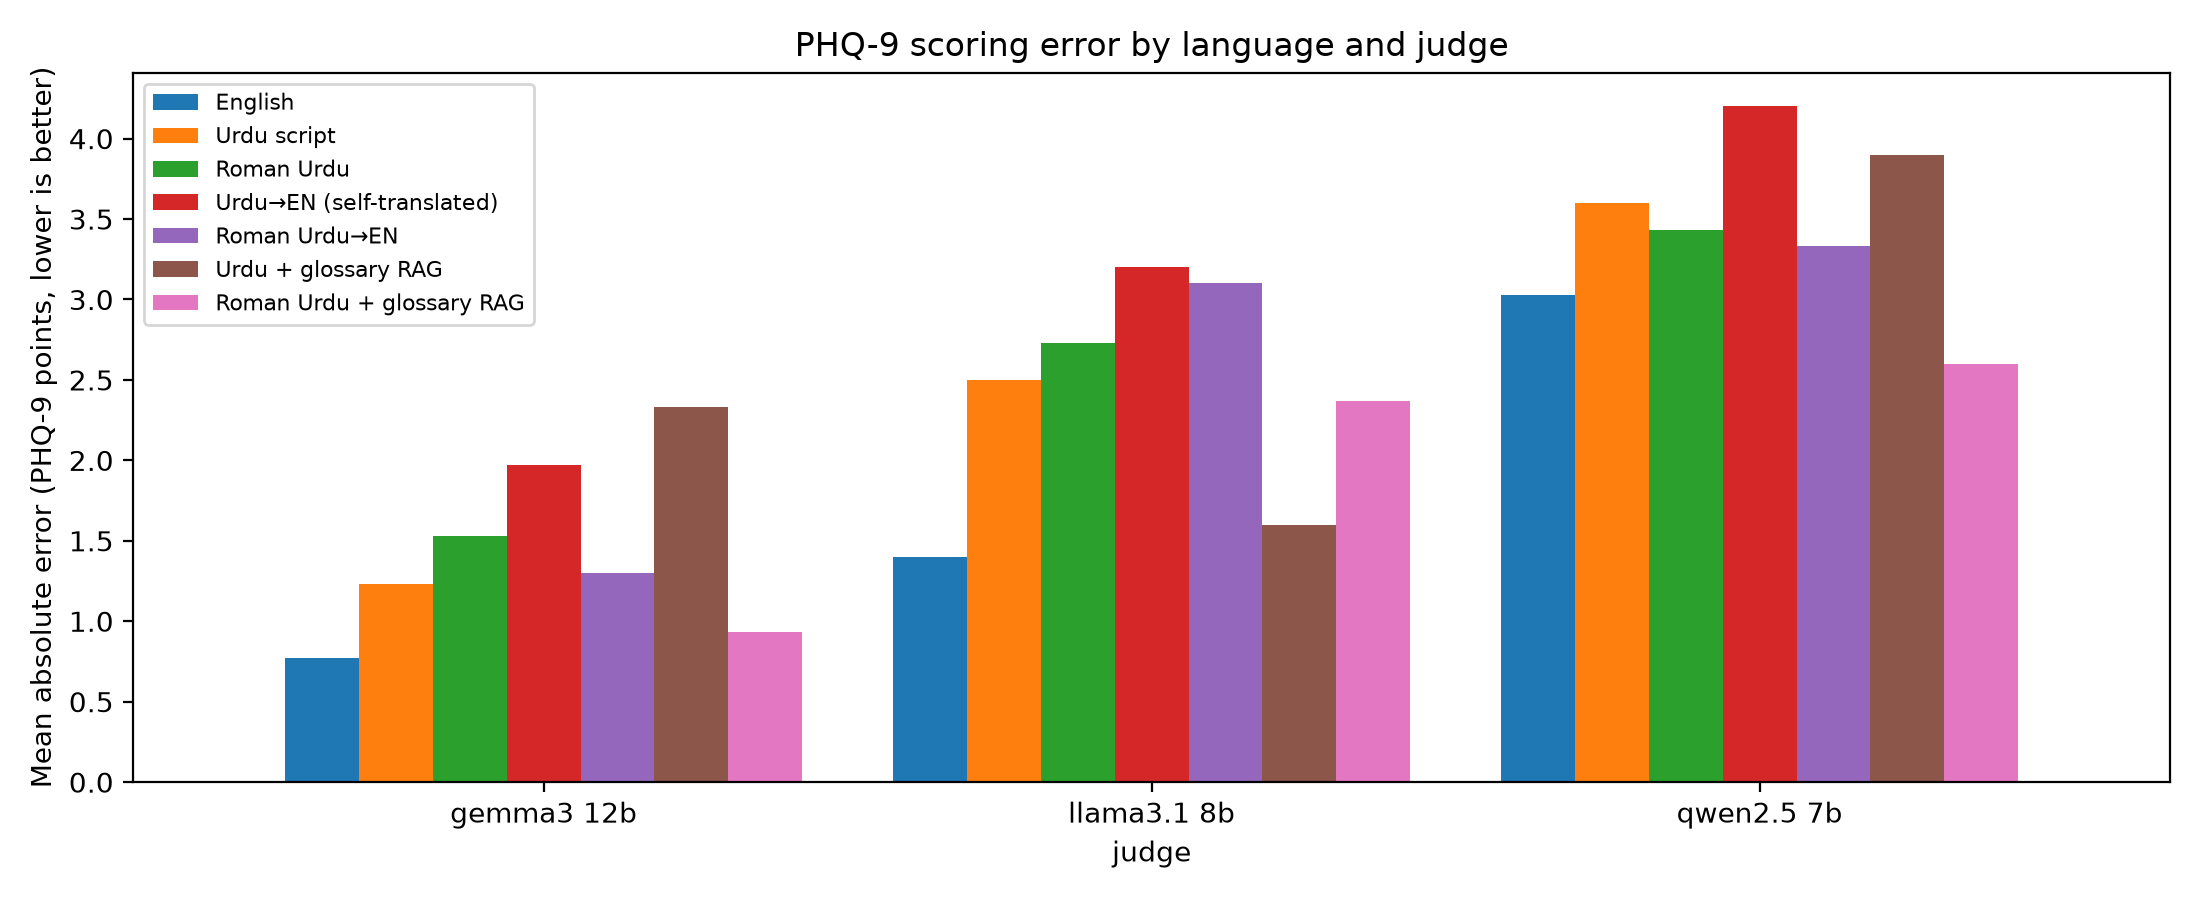
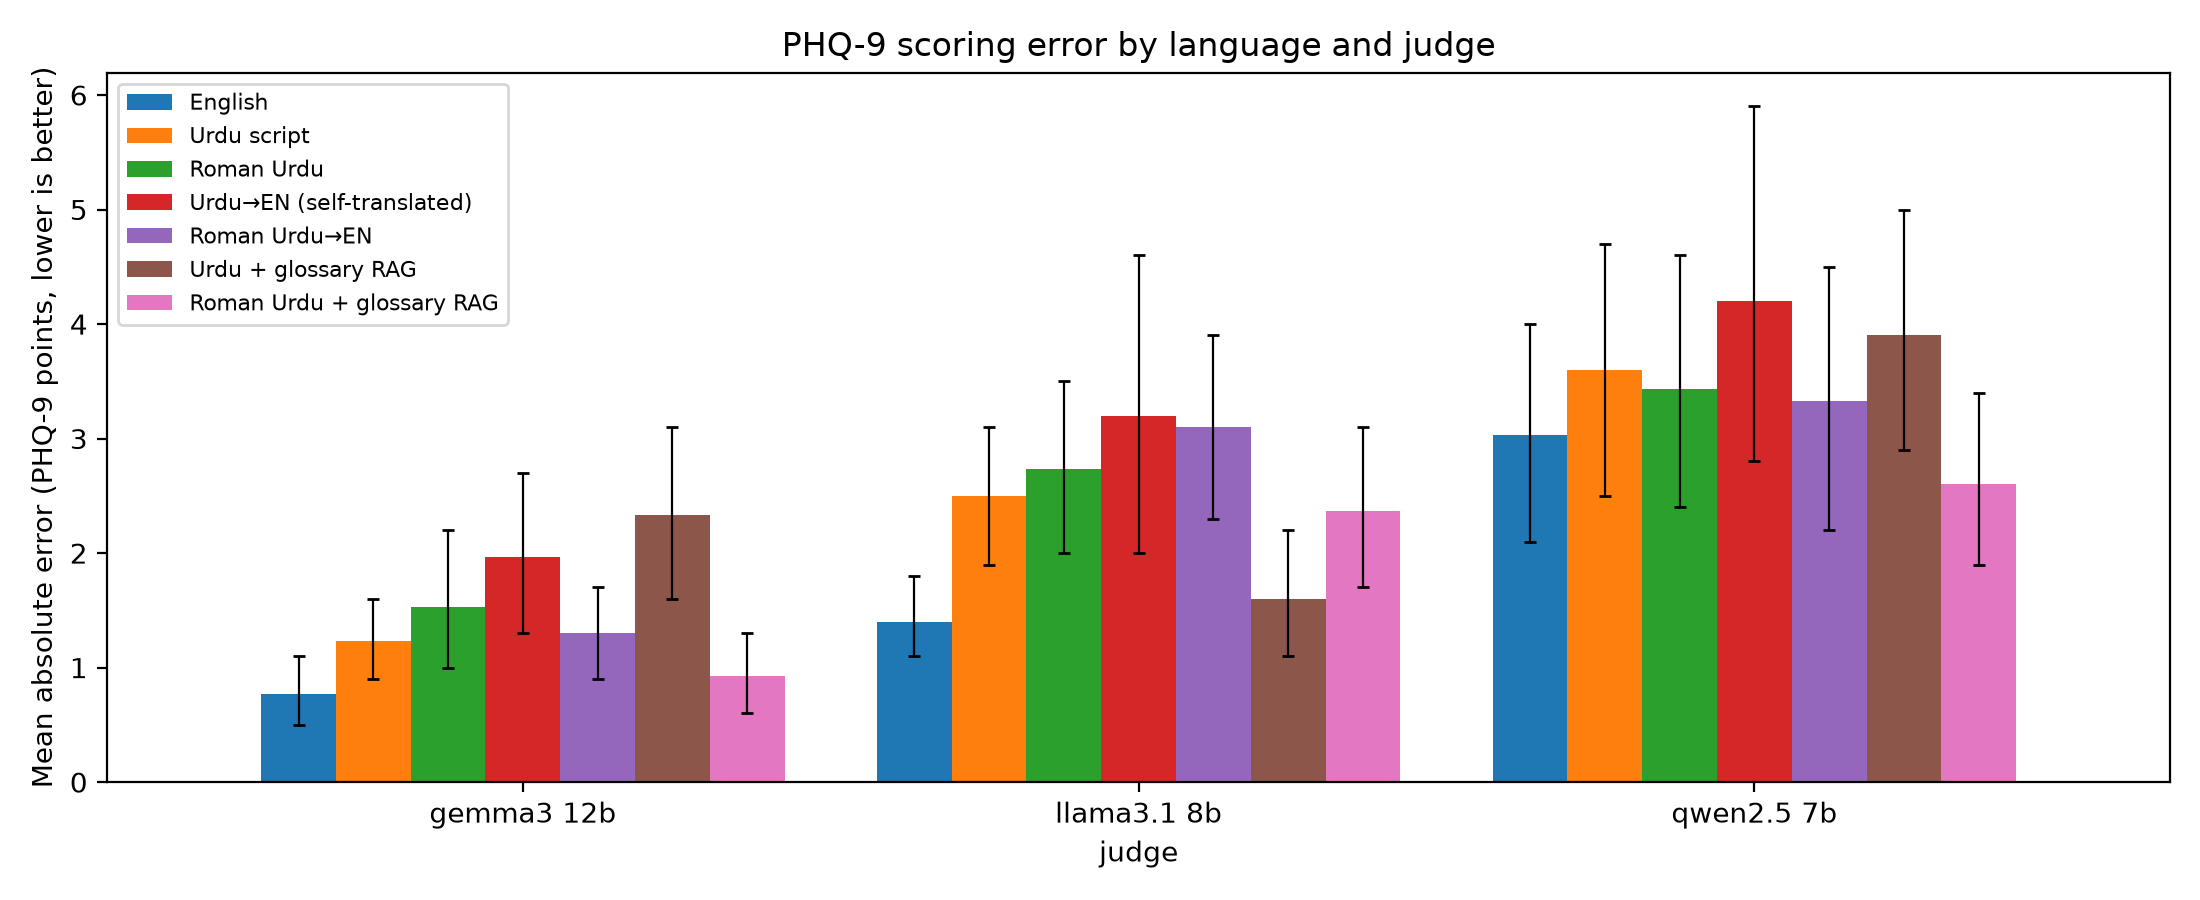
Figures: 95% bootstrap CI error bars; tidy Holm column init

diff --git a/pipeline.py b/pipeline.py
@@ -321,6 +321,7 @@ def results():
     Tt = pd.DataFrame(tests)
     # Holm-Bonferroni correction across all paired tests
     order_idx = Tt["p_perm"].sort_values().index
+    Tt["p_holm"] = 1.0
     m, running = len(Tt), 0.0
     for rank, i in enumerate(order_idx):
         running = max(running, min(1.0, (m - rank) * Tt.at[i, "p_perm"]))
@@ -363,7 +364,12 @@ def results():
     order = CONDITIONS
     labels = ["English", "Urdu script", "Roman Urdu", "Urdu→EN (self-translated)", "Roman Urdu→EN", "Urdu + glossary RAG", "Roman Urdu + glossary RAG"]
     M = T.pivot(index="judge", columns="condition", values="MAE")[order]
-    ax = M.plot(kind="bar", figsize=(11, 4.5), width=0.85)
+    ci = T.assign(lo=T["MAE_95CI"].str.split("-").str[0].astype(float),
+                  hi=T["MAE_95CI"].str.split("-").str[1].astype(float))
+    lo = (M - ci.pivot(index="judge", columns="condition", values="lo")[order]).clip(lower=0)
+    hi = (ci.pivot(index="judge", columns="condition", values="hi")[order] - M).clip(lower=0)
+    err = np.stack([np.stack([lo[c].values, hi[c].values]) for c in order])  # (series, 2, judges)
+    ax = M.plot(kind="bar", figsize=(11, 4.5), width=0.85, yerr=err, capsize=2, error_kw={"elinewidth": 0.8})
     ax.set_ylabel("Mean absolute error (PHQ-9 points, lower is better)")
     ax.set_title("PHQ-9 scoring error by language and judge")
     ax.legend(labels, fontsize=8)
